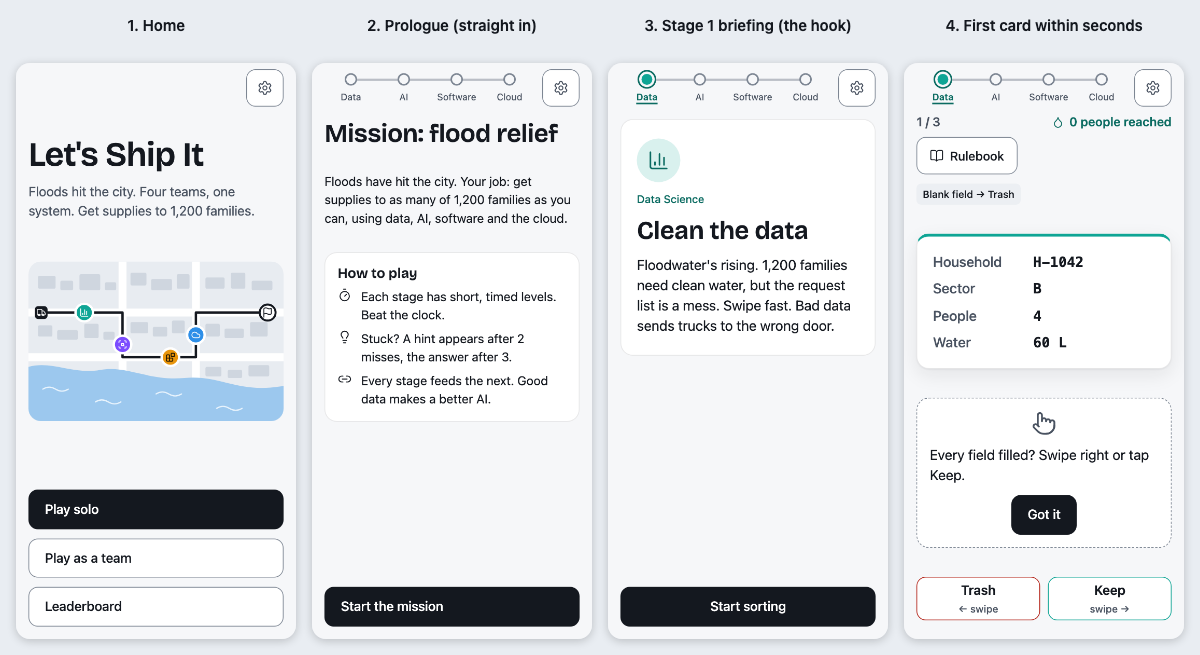
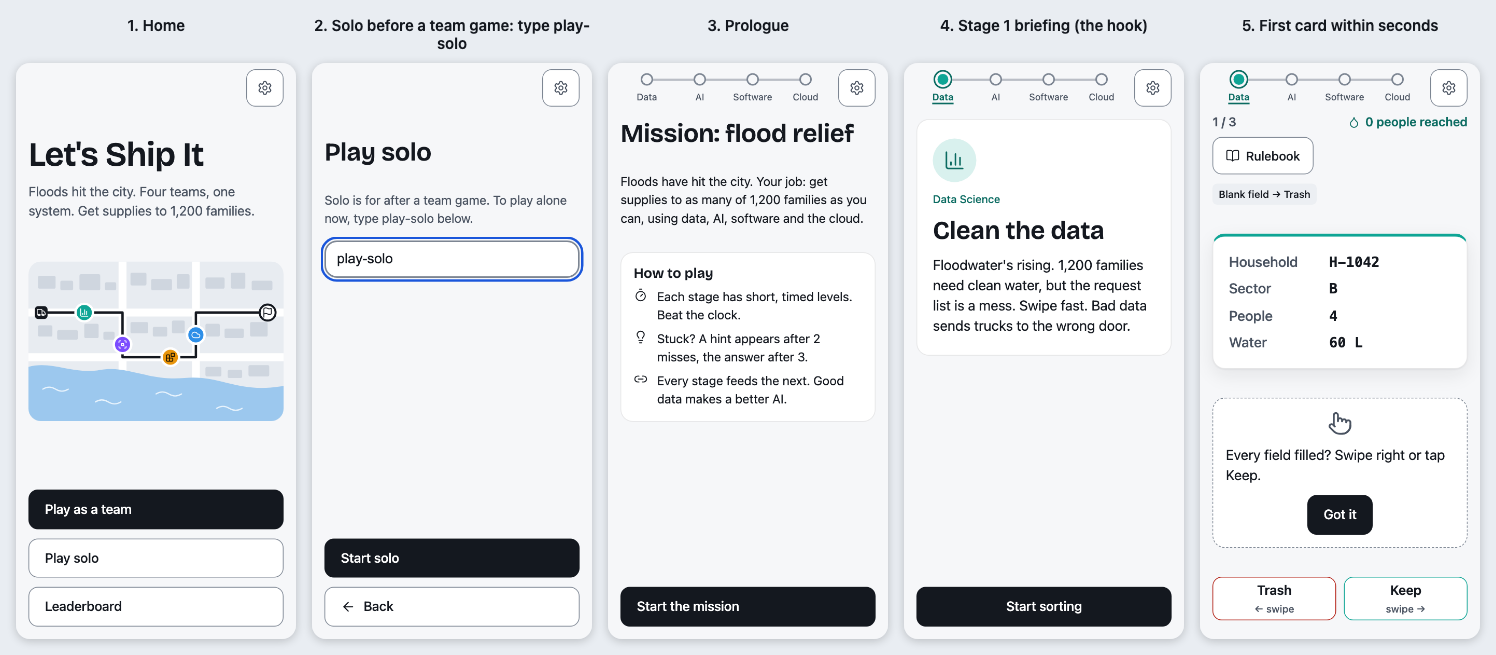
Solo before a team game: type play-solo (no ?debug=1 needed); live scripts match the debug rule
- Home leads with Play as a team on a first-time phone; Play solo asks for the phrase
  play-solo until the phone finishes a team game. Never a dead end during outages.
- group-live / capture-flows: debug team runs aren't ranked on the deployed site; a local
  build with VITE_ALLOW_DEBUG_SUBMIT=1 checks the rank path. README: two terminal tabs.
- Live 2-phone check over Supabase: 18/18. Solo screenshots recaptured.

diff --git a/src/app/screens/Home.tsx b/src/app/screens/Home.tsx
@@ -8,7 +8,8 @@ import { useScreenHeading } from '../screenFocus';
 import ui from '../ui.module.css';
 import { Icon } from '../../components/Icon';
 import { CityMap } from './CityMap';
-import { soloUnlocked } from '../../state/soloLock';
+import { isSoloPhrase, soloUnlocked } from '../../state/soloLock';
+import g from './Group.module.css';
 
 const t = copy.home;
 
@@ -32,11 +33,12 @@ export function Home({
   // Free play (§8.3): once a run is finished, replay any stage of it with the bonus levels.
   const canReplay = useGame((s) => !!s.run?.finishedAt);
   const replayFrom = useGame((s) => s.replayFrom);
-  const [screen, setScreen] = useState<'main' | 'replay' | 'team'>('main');
+  const [screen, setScreen] = useState<'main' | 'replay' | 'team' | 'solo'>('main');
+  const [typed, setTyped] = useState('');
   const soloOpen = soloUnlocked();
   const headingRef = useScreenHeading<HTMLHeadingElement>(
     // The replay picker names its own screen.
-    screen === 'replay' ? '' : screen === 'team' ? t.playTeam : t.title,
+    screen === 'replay' ? '' : screen === 'team' ? t.playTeam : screen === 'solo' ? t.playSolo : t.title,
   );
 
   const playSolo = () => {
@@ -55,6 +57,48 @@ export function Home({
             onEnter();
           }}
         />
+      </main>
+    );
+  }
+
+  if (screen === 'solo') {
+    const ok = isSoloPhrase(typed);
+    return (
+      <main className={ui.screen}>
+        <h1 className={ui.hero} ref={headingRef} tabIndex={-1}>
+          {t.playSolo}
+        </h1>
+        <form
+          className={ui.screen}
+          onSubmit={(e) => {
+            e.preventDefault();
+            if (ok) playSolo();
+          }}
+        >
+          <label htmlFor="solo-phrase" className={ui.muted}>
+            {t.soloLocked}
+          </label>
+          <input
+            id="solo-phrase"
+            className={g.input}
+            value={typed}
+            onChange={(e) => setTyped(e.target.value)}
+            placeholder={t.soloField}
+            autoComplete="off"
+            autoCapitalize="none"
+            autoCorrect="off"
+            spellCheck={false}
+          />
+          <div className={ui.actions}>
+            <button type="submit" className={`${ui.btn} ${ui.primary}`} aria-disabled={!ok || undefined}>
+              {t.soloStart}
+            </button>
+            <button type="button" className={ui.btn} onClick={() => setScreen('main')}>
+              <Icon name="back" />
+              {t.back}
+            </button>
+          </div>
+        </form>
       </main>
     );
   }
@@ -117,14 +161,25 @@ export function Home({
               {t.resume}
             </button>
           )}
-          {soloOpen && (
+          {soloOpen ? (
             <button type="button" className={`${ui.btn} ${hasRun ? '' : ui.primary}`} onClick={playSolo}>
               {hasRun ? t.newRun : t.playSolo}
             </button>
+          ) : (
+            // Team first: Solo still works, after typing the phrase (never a dead end).
+            <button type="button" className={`${ui.btn} ${hasRun ? '' : ui.primary}`} onClick={() => setScreen('team')}>
+              {t.playTeam}
+            </button>
           )}
-          <button type="button" className={`${ui.btn} ${soloOpen || hasRun ? '' : ui.primary}`} onClick={() => setScreen('team')}>
-            {t.playTeam}
-          </button>
+          {soloOpen ? (
+            <button type="button" className={ui.btn} onClick={() => setScreen('team')}>
+              {t.playTeam}
+            </button>
+          ) : (
+            <button type="button" className={ui.btn} onClick={() => setScreen('solo')}>
+              {t.playSolo}
+            </button>
+          )}
           {canReplay && (
             <button type="button" className={ui.btn} data-testid="home-replay" onClick={() => setScreen('replay')}>
               <Icon name="unlock" />
@@ -134,7 +189,6 @@ export function Home({
           <button type="button" className={ui.btn} onClick={onLeaderboard}>
             {t.leaderboard}
           </button>
-          {!soloOpen && <p className={ui.muted}>{t.soloLocked}</p>}
         </div>
       )}
     </main>

diff --git a/e2e/shell.spec.ts b/e2e/shell.spec.ts
@@ -86,12 +86,16 @@ test('Play as a team offers Create and Join', async ({ page }) => {
   await expect(page.getByRole('button', { name: 'Play solo' })).toBeVisible();
 });
 
-test('solo opens only after a team game on this phone; ?debug=1 always opens it', async ({ page }) => {
+test('before a team game, Solo needs the typed phrase play-solo', async ({ page }) => {
   await page.evaluate(() => localStorage.removeItem('ship-it-team-done'));
   await page.reload();
-  await expect(page.getByRole('button', { name: 'Play solo' })).toHaveCount(0);
-  await expect(page.getByText('Solo opens after your first team game.')).toBeVisible();
-  await expect(page.getByRole('button', { name: 'Play as a team' })).toBeVisible();
-  await page.goto('/?debug=1');
-  await expect(page.getByRole('button', { name: 'Play solo' })).toBeVisible();
+  await page.getByRole('button', { name: 'Play solo' }).click();
+  const start = page.getByRole('button', { name: 'Start solo' });
+  await expect(start).toHaveAttribute('aria-disabled', 'true'); // not until the phrase is typed
+  await page.getByLabel(/type play-solo/).fill('play solo');
+  await page.keyboard.press('Enter');
+  await expect(page.getByRole('heading', { name: 'Play solo' })).toBeVisible(); // wrong phrase: still here
+  await page.getByLabel(/type play-solo/).fill(' Play-Solo ');
+  await start.click();
+  await expect(page.getByTestId('prologue-heading')).toBeVisible();
 });

diff --git a/src/state/soloLock.ts b/src/state/soloLock.ts
@@ -1,10 +1,14 @@
 import { safeStorage } from './storage';
 
-// Solo opens once this phone has finished a team game (owner decision, Nov 2026): the booth is
-// about playing together. ?debug=1 always opens it, so facilitators can test alone.
+// Solo is meant for after a team game (owner decision, Nov 2026): the booth is about playing
+// together. Before that, a player (or a facilitator testing, or anyone during an outage) can
+// still play solo by typing the phrase, so it's never a dead end.
 const KEY = 'ship-it-team-done';
 
-export const soloUnlocked = (search = window.location.search): boolean =>
-  safeStorage.getItem(KEY) === '1' || new URLSearchParams(search).get('debug') === '1';
+export const soloUnlocked = (): boolean => safeStorage.getItem(KEY) === '1';
 
 export const markTeamDone = () => safeStorage.setItem(KEY, '1');
+
+/** Typed phrase that opens Solo before a team game. Case and outer spaces don't matter. */
+export const SOLO_PHRASE = 'play-solo';
+export const isSoloPhrase = (typed: string) => typed.trim().toLowerCase() === SOLO_PHRASE;

diff --git a/src/content/schemas.ts b/src/content/schemas.ts
@@ -35,7 +35,7 @@ export const stagesFileSchema = z.object({
 const text = z.string().min(1);
 export const copySchema = z.object({
   home: z.object({
-    title: text, tagline: text, playSolo: text, soloLocked: text, playTeam: text, teamBody: text, createGroup: text, joinGroup: text,
+    title: text, tagline: text, playSolo: text, soloLocked: text, soloField: text, soloStart: text, playTeam: text, teamBody: text, createGroup: text, joinGroup: text,
     leaderboard: text, resume: text, newRun: text, replayStage: text, back: text,
   }),
   /** Free play after a finished run: replays unlock the bonus levels. */

diff --git a/src/state/soloLock.test.ts b/src/state/soloLock.test.ts
@@ -1,0 +1,6 @@
+import { isSoloPhrase } from './soloLock';
+
+it('accepts play-solo whatever the case or outer spaces, nothing else', () => {
+  for (const ok of ['play-solo', ' Play-Solo ', 'PLAY-SOLO']) expect(isSoloPhrase(ok)).toBe(true);
+  for (const no of ['', 'play solo', 'playsolo', 'play-solo!']) expect(isSoloPhrase(no)).toBe(false);
+});

diff --git a/docs/DECISIONS.md b/docs/DECISIONS.md
@@ -15,7 +15,7 @@ How the game is built and why, where the spec (`docs/GAME_SPEC.md`) left room fo
 - **Timers.** Relaxed mode gives ×1.5 time. From 20 s left, a free "+30 seconds" button appears (up to 10 times), for WCAG 2.2.1. Timers pause while Settings, the Rulebook or the Field guide is open, and while the tab is hidden.
 - **Debug params.** `?debug=1` shows a stage-jump panel; `?stage=N` only works together with `?debug=1`. `?simSpeed=N` speeds up Stage 4 storms (debug only). `?relaxed=1` applies for one page load only, so a shared phone doesn't stay relaxed.
 - **Debug runs are never ranked.** A phone opened with `?debug=1` marks every run it touches (`run.debug`). A team run with that mark is not sent to the leaderboard; every phone shows "Test run (debug mode): not added to the board." (debug can jump stages, which counts a skipped Stage 3 as a perfect logic score). e2e and screenshot builds set `VITE_ALLOW_DEBUG_SUBMIT=1` to keep the rank reveal.
-- **Solo opens after a team game (owner decision, Nov 2026).** Home shows Play solo only once this phone has finished a team game (`localStorage` `ship-it-team-done`, `src/state/soloLock.ts`); until then it says "Solo opens after your first team game." `?debug=1` always shows Solo, for testing.
+- **Solo after a team game, or by typing play-solo (owner decision, Nov 2026).** Home leads with Play as a team. Once this phone has finished a team game (`localStorage` `ship-it-team-done`, `src/state/soloLock.ts`), Play solo starts straight away; before that it opens a short screen where the player types `play-solo` (any case). So Solo is never a dead end (outages, testing) without needing `?debug=1`.
 
 ## 2. Stages
 
@@ -130,5 +130,6 @@ These all have working defaults; they're worth revisiting after playtests.
 - **23 Oct 2026, leaderboard token kept on the device.** The submit token no longer travels in the shared session (assessment F2: anyone with the code could read it and claim the team's leaderboard slot first). The leader's phone keeps its own (saved with its rejoin data, so retries reuse it); a stand-in submitter makes its own. The session's `token` field stays only so older app versions still accept the session.
 - **1 Nov 2026, unslop visual pass.** Emoji replaced by one icon set; heading font; weights capped at 600; quieter borders and radii; exclamation marks removed from copy; Home gets a city map with the supply route; the stage strip became the route line; the debrief gets a families gauge. Gameplay, content order and scoring unchanged.
 - **1 Nov 2026, Supabase keep-alive.** Daily read-only ping workflow so the free-tier project stops pausing.
-- **1 Nov 2026, audit fixes.** Debug runs never ranked; Solo locked until a team game is finished on the phone (`?debug=1` bypass); dead `labelStreakActive` removed.
+- **1 Nov 2026, audit fixes.** Debug runs never ranked; Solo locked until a team game is finished on the phone; dead `labelStreakActive` removed.
 - **1 Nov 2026, signed team messages.** Ed25519 signatures on every team message and entry (protocol 2); outsiders with the code can no longer end a game, steal the main phone or rewrite the run.
+- **1 Nov 2026, audit 2.** Solo before a team game needs the typed phrase `play-solo` (replaces the `?debug=1` bypass; works during outages). Live scripts expect debug team runs to stay off the board unless built with `VITE_ALLOW_DEBUG_SUBMIT=1`; README uses two terminal tabs.

diff --git a/e2e-live/README.md b/e2e-live/README.md
@@ -9,9 +9,13 @@ node e2e-live/capture-flows.mjs [solo|replay|board|2|3|4|drop]   # screenshots f
 ```
 
 - Score submission is intercepted, so nothing is written to the real leaderboard. Lobbies expire on their own.
-- By default these run against the deployed site. To check a local build first (it reads `.env.local`):
+- By default these run against the deployed site. The phones play with `?debug=1`, and debug runs are never ranked, so the deployed site checks that nothing is submitted and the debrief says "Test run".
+- To check the real submit path and the rank reveal, use a local build made with `VITE_ALLOW_DEBUG_SUBMIT=1` (it reads `.env.local`). Use two terminal tabs: a server started with `&` gets paused by the shell and stops answering.
   ```
-  npm run build && npx vite preview --port 4173 &
-  LIVE_URL=http://localhost:4173 npm run live:groups
+  # Tab 1 (leave it running)
+  VITE_ALLOW_DEBUG_SUBMIT=1 npm run build && npx vite preview --port 4173
+  # Tab 2
+  VITE_ALLOW_DEBUG_SUBMIT=1 LIVE_URL=http://localhost:4173 npm run live:groups
   ```
+- Team play needs Supabase awake. If teammates get "Can't find that team", check the project isn't paused (Supabase dashboard).
 - Check screenshots land in `test-results/`; flow screenshots in `docs/flows/`.
